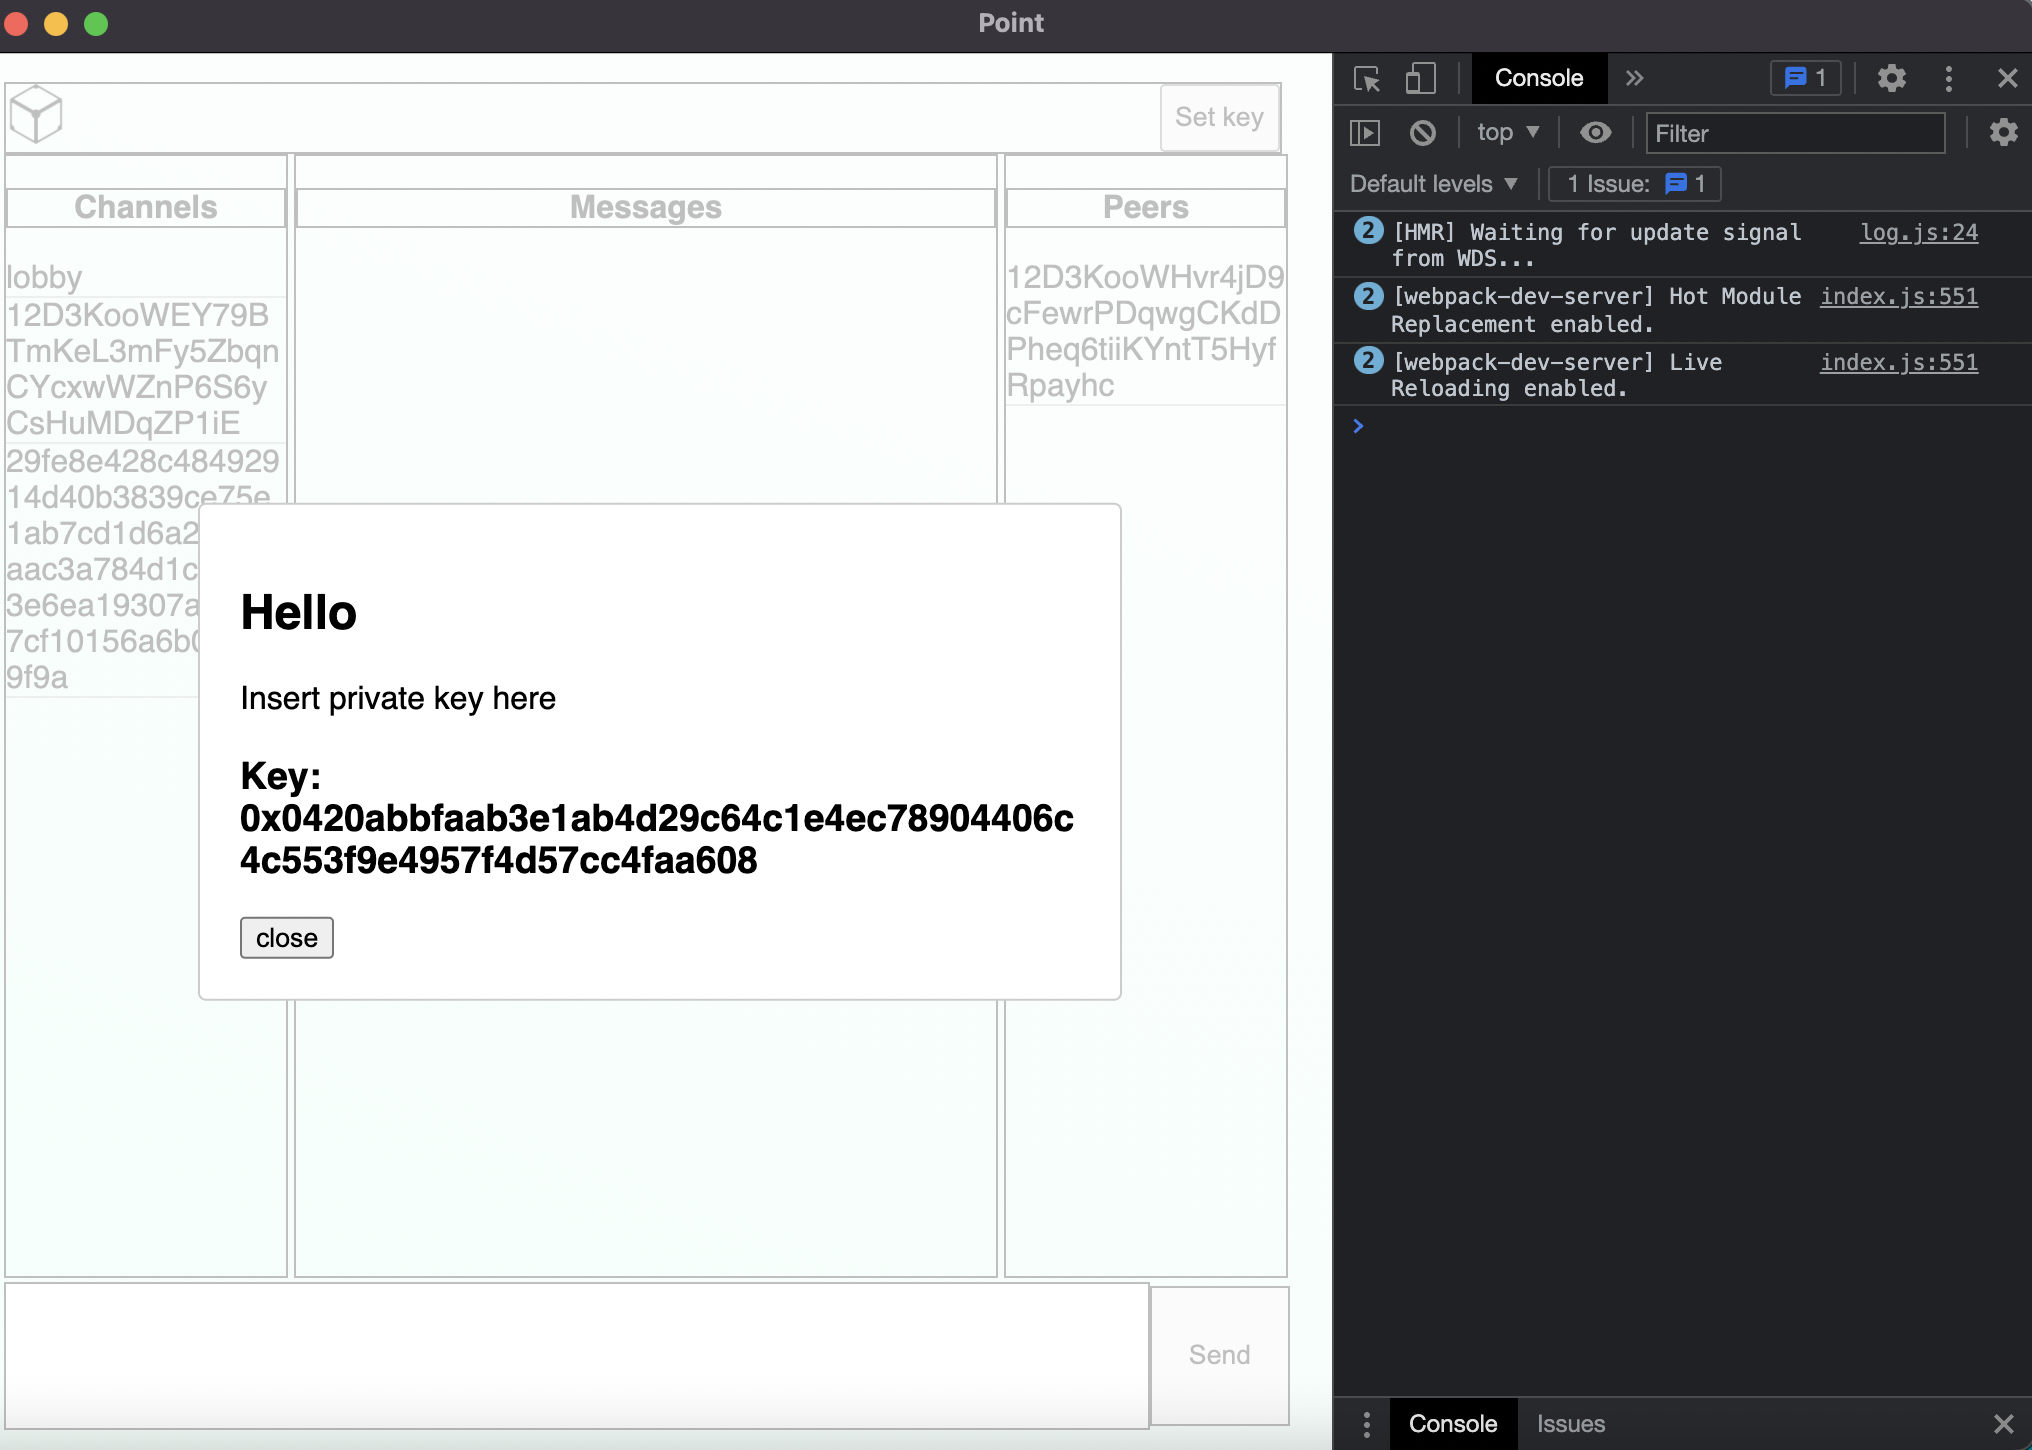
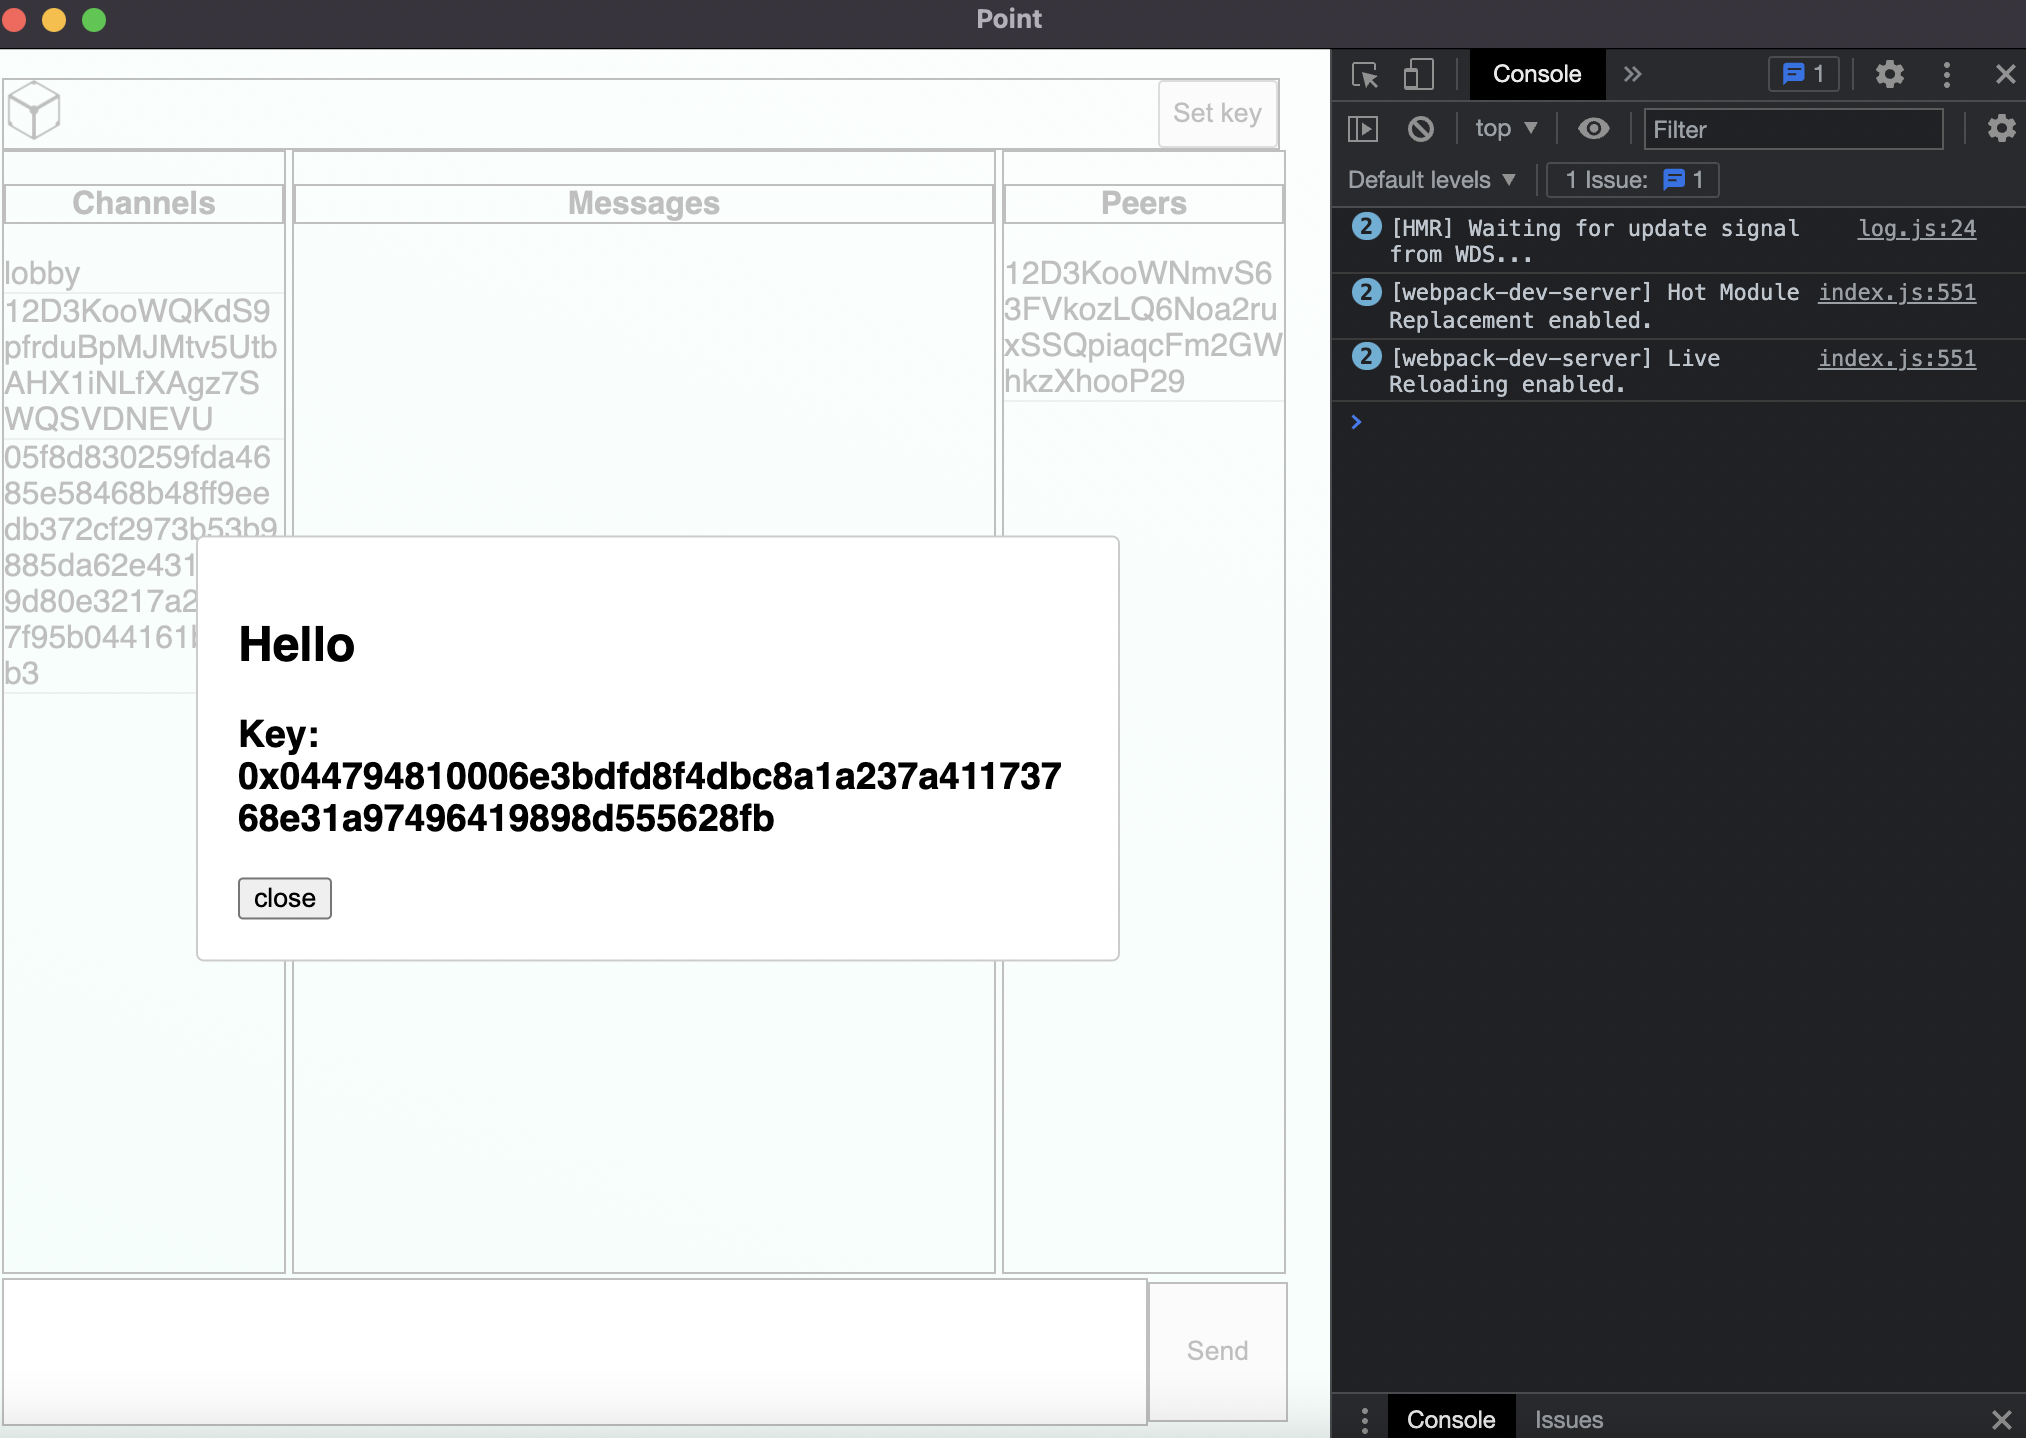
minor fixes for PK in private channels

diff --git a/src/renderer/App.tsx b/src/renderer/App.tsx
@@ -60,36 +60,39 @@ const Hello = () => {
         contentLabel="Example Modal"
       >
         <h2 ref={(_subtitle) => (subtitle = _subtitle)}>Hello</h2>
-        <div className="overflow">Insert private key here</div>
+
         {key ? <h3>Key: {key} </h3> : <h3>key is not setted</h3>}
         {!channel.p2p ? (
-          <form>
-            <input
-              value={value}
-              onChange={(evt) => setValue(evt.target.value)}
-            />
+          <>
+            <div className="overflow">Insert private key here</div>
+            <form>
+              <input
+                value={value}
+                onChange={(evt) => setValue(evt.target.value)}
+              />
 
-            <button
-              type="button"
-              onClick={() => {
-                setChannelKey(
-                  {
-                    topic: channel.topic,
-                    key: value,
-                  },
-                  channel.topic
-                );
-                setChannel({ topic: channel.topic, key: value });
-                setValue('');
-              }}
-            >
-              set
-            </button>
+              <button
+                type="button"
+                onClick={() => {
+                  setChannelKey(
+                    {
+                      topic: channel.topic,
+                      key: value,
+                    },
+                    channel.topic
+                  );
+                  setChannel({ topic: channel.topic, key: value });
+                  setValue('');
+                }}
+              >
+                set
+              </button>
 
-            <button type="button" onClick={closeModal}>
-              close
-            </button>
-          </form>
+              <button type="button" onClick={closeModal}>
+                close
+              </button>
+            </form>
+          </>
         ) : (
           <button type="button" onClick={closeModal}>
             close

diff --git a/README.md b/README.md
@@ -57,7 +57,7 @@ When I click to a peer in the list new channel is being created.
 You can see on the left now we have 3 channels. The last channel is a huge random number - supposedly no one will be able to guess it. This is private channel for me and a peer I clicked on.
 ![image-5](./assets/README/5.png)
 
-And private key for our channel already specified for the convinience. It is achieved with ECDH, but I'll talk about this later.
+And private key for our channel already specified and is not chengeable. It is achieved with ECDH, but I'll talk about this later.
 
 ## How it was made
 
